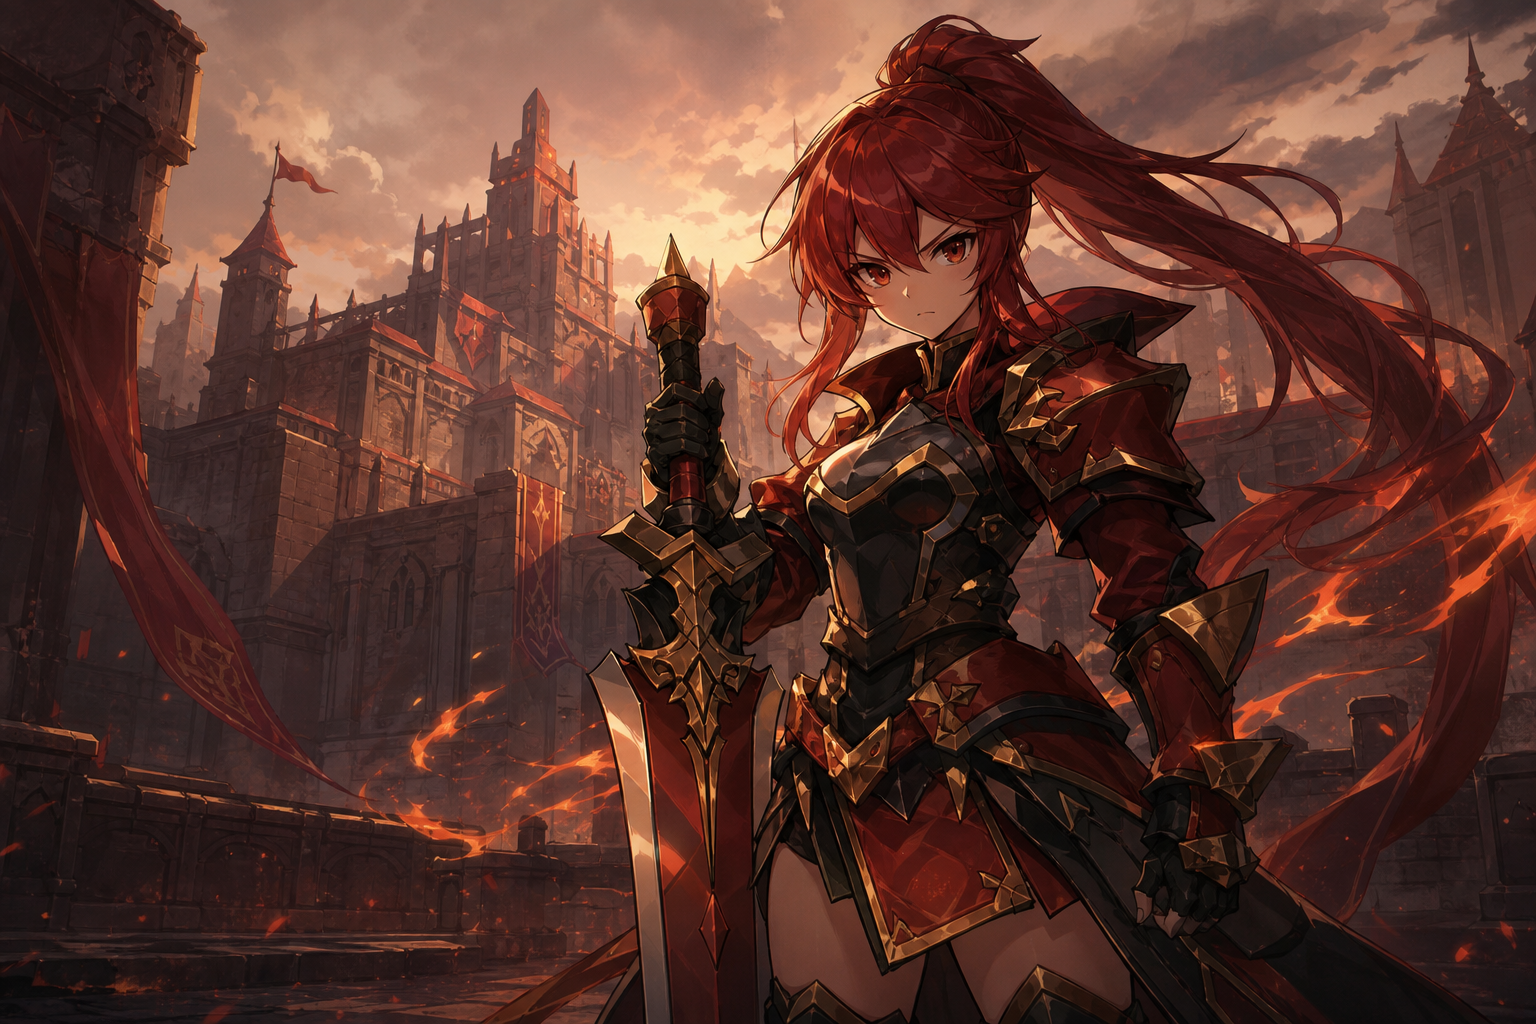
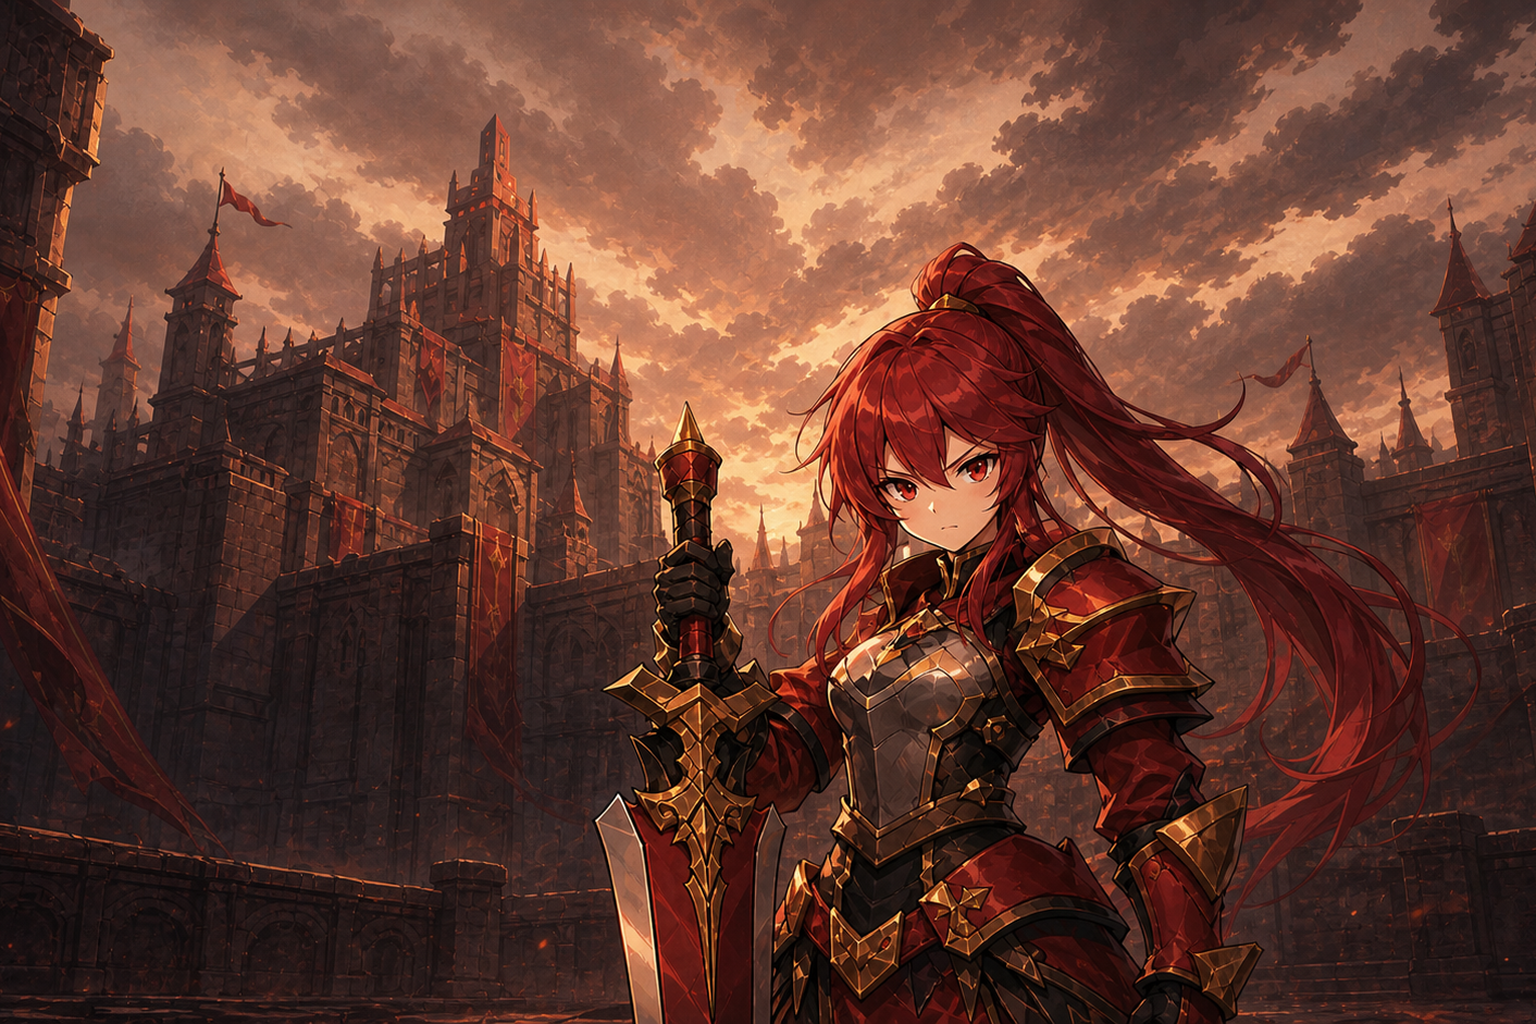
Release Elesis v0.4.7

diff --git a/ElesisCode/Powers/FlamePower.cs b/ElesisCode/Powers/FlamePower.cs
@@ -1,9 +1,13 @@
 using MegaCrit.Sts2.Core.Entities.Powers;
+using Elesis.ElesisCode.Extensions;
 
 namespace Elesis.ElesisCode.Powers;
 
 public sealed class FlamePower : ElesisPower
 {
+    public override string CustomPackedIconPath => "flame_power.png".PowerImagePath();
+    public override string CustomBigIconPath => "flame_power.png".BigPowerImagePath();
+
     public override PowerType Type => PowerType.Buff;
     public override PowerStackType StackType => PowerStackType.Counter;
 }

diff --git a/docs/DESIGN.md b/docs/DESIGN.md
@@ -10,6 +10,6 @@ Confirmed design direction:
 - Card portraits have a first functional art pass. The 40 implemented cards each have runtime and big portrait PNGs named after their card IDs, with source art grouped by current mechanics and rarity beats.
 - Character selection uses a Belder/Velder fortress backdrop with Elesis shown from head to mid-thigh, while the clickable selector icon stays focused on her head and shoulders.
 - The starter relic visual is the Belder Knight Emblem: a red-and-gold knight crest with a claymore motif, matching her red knight identity.
-- Energy UI uses a red crystal-and-gold knight orb, while Chivalry uses a separate red-gold sword crest power icon.
+- Energy UI uses a red crystal-and-gold knight orb. Chivalry uses a red-gold sword crest power icon, and Flame uses a sharper red-orange sword-flame crest icon.
 
 Do not treat generated art attempts as final until one is explicitly selected as the project asset.

diff --git a/docs/design/GAMEPLAY_IDENTITY.md b/docs/design/GAMEPLAY_IDENTITY.md
@@ -3,6 +3,6 @@
 Use this file for the character's confirmed mechanical identity, archetypes, and constraints.
 
 - Elesis uses Chivalry as her primary combat rhythm. Vitality cards build Chivalry, Destruction cards can spend 5 Chivalry for bonus damage or Block, and Vitality thresholds can spend 5 Chivalry to draw.
-- Flame is a secondary burst counter. Flame cards build Flame; non-Flame Attacks consume stored Flame as bonus damage.
+- Flame is a secondary burst counter with a dedicated visible power icon. Flame cards build Flame; non-Flame Attacks consume stored Flame as bonus damage.
 - Belder Knight Emblem is Elesis' starter relic. It gives 2 Chivalry at the start of each combat, giving her an early rhythm without immediately triggering the 5-Chivalry threshold.
 - Starting deck uses `QuickStep` and `ClaymoreArc` as the two non-basic common cards so a new run can build Chivalry and immediately see a Destruction spend pattern.

diff --git a/docs/releases/v0.4.7.md b/docs/releases/v0.4.7.md
@@ -1,0 +1,9 @@
+# Elesis v0.4.7
+
+Flame icon and character selection art polish pass.
+
+- Added dedicated Flame power icons and wired `FlamePower` to use them.
+- Refreshed the clickable Elesis character select portrait with a Belder fortress background and larger framing.
+- Updated the character select background so Elesis sits lower in frame with her full head and hair visible.
+- Enlarged the Elesis map marker character art.
+- Updated design notes for the Flame icon and visible Flame counter behavior.
